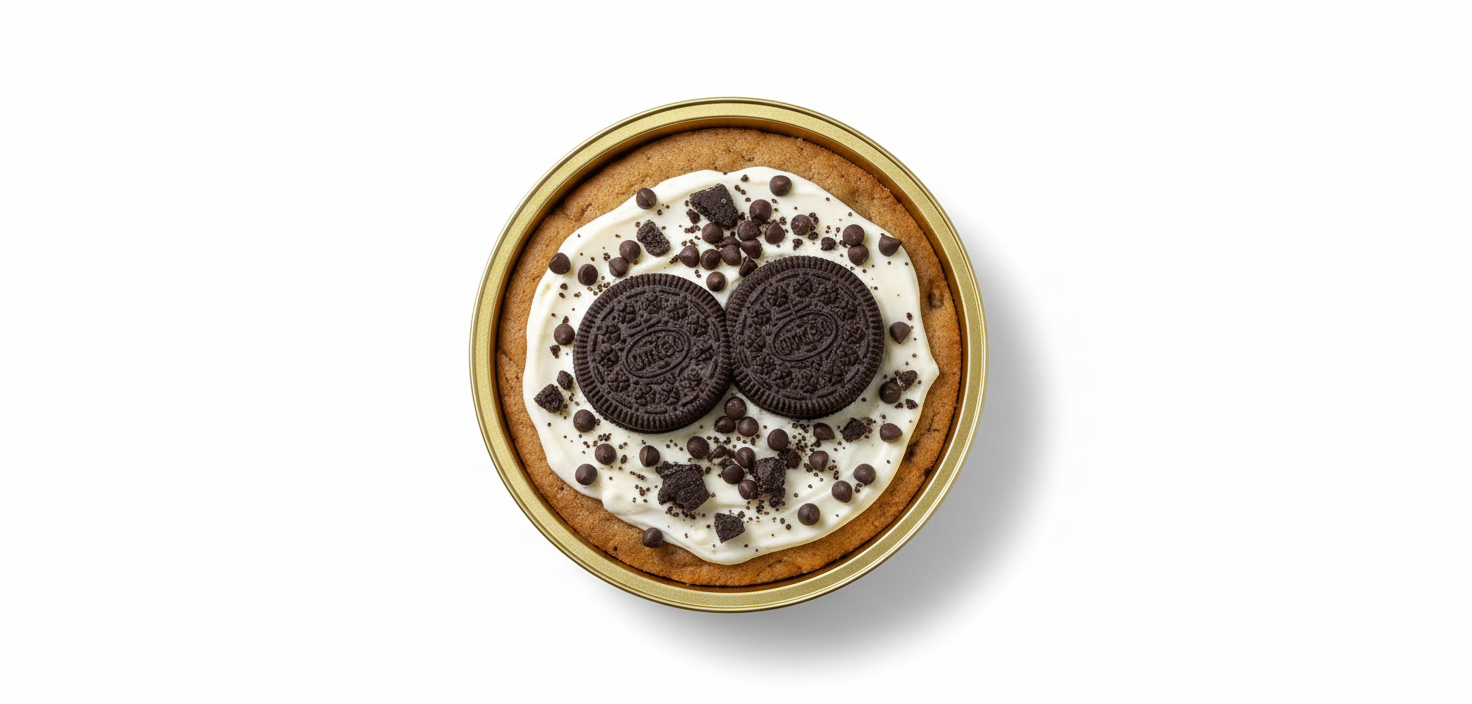
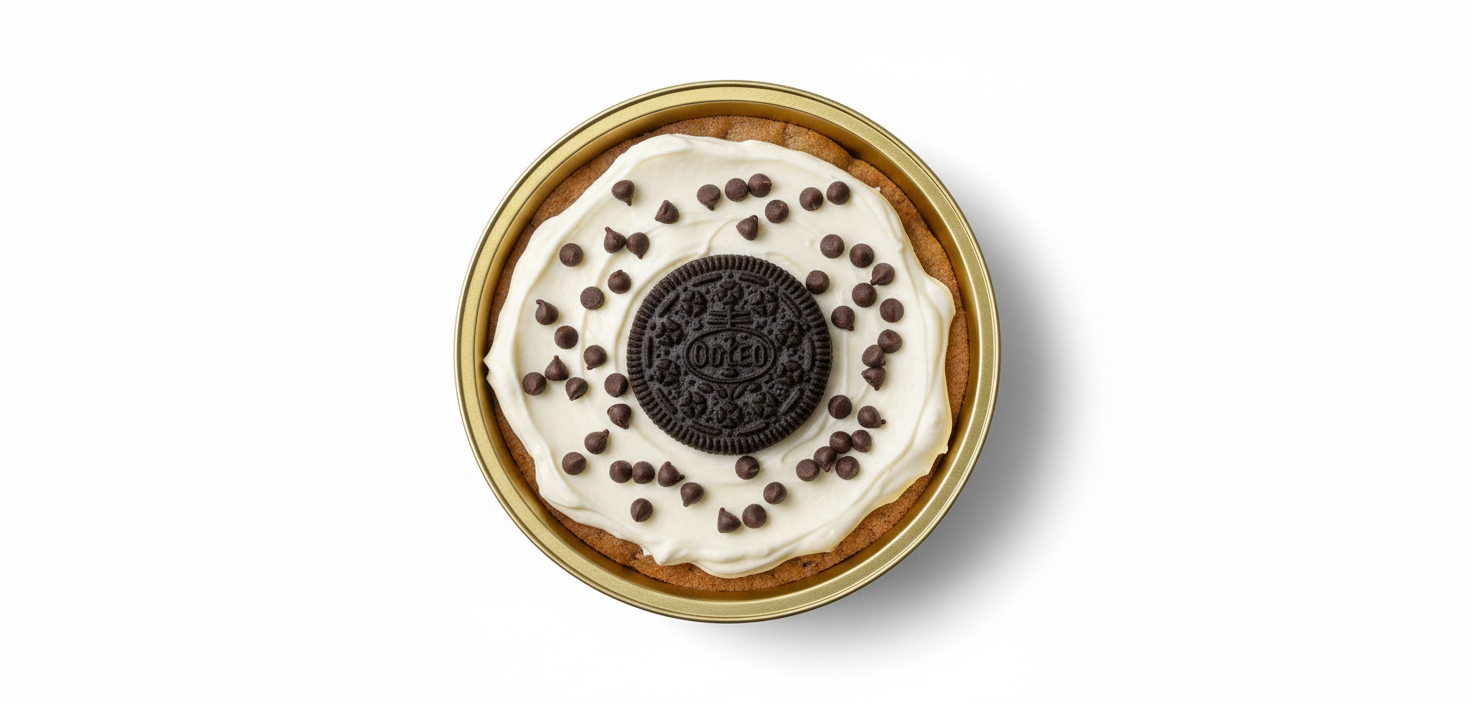
Changes

Changed region(s): [[0.2812, 0.0938, 0.75, 0.9375]]

diff --git a/src/components/CookiesSection.tsx b/src/components/CookiesSection.tsx
@@ -4,13 +4,14 @@ import cookieLotus from "@/assets/cookie-lotus.jpg";
 import cookieToblerone from "@/assets/cookie-toblerone.jpg";
 import cookieRedVelvet from "@/assets/cookie-redvelvet.jpg";
 import cookieKinderBueno from "@/assets/cookie-kinderbueno.jpg";
+import cookieKinderFingers from "@/assets/cookie-kinder-fingers.jpg";
 import cookieConfetti from "@/assets/cookie-confetti.jpg";
 
 const cookies = [
   {
     image: cookieOreo,
     name: "אוראו",
-    description: "עוגייה עם קרם לבן קטיפתי ועוגיית אוראו שלמה למעלה. פריכות ושוקולד בכל ביס.",
+    description: "עוגייה עם קרם לבן קטיפתי ועוגיית אוראו במרכז. פריכות ושוקולד בכל ביס.",
     price: "₪25",
   },
   {
@@ -34,7 +35,13 @@ const cookies = [
   {
     image: cookieKinderBueno,
     name: "קינדר בואנו",
-    description: "עוגייה עם אצבעות קינדר בואנו, שוקולד חלב וצ׳יפס שוקולד לבן.",
+    description: "עוגייה עם חתיכות קינדר בואנו, שוקולד חלב וצ׳יפס שוקולד לבן.",
+    price: "₪25",
+  },
+  {
+    image: cookieKinderFingers,
+    name: "אצבעות קינדר",
+    description: "עוגייה עם אצבעות שוקולד קינדר וציפוי שוקולד חלב מותך. לחובבי הקינדר.",
     price: "₪25",
   },
   {
@@ -62,7 +69,7 @@ const CookiesSection = () => {
           </p>
         </div>
 
-        <div className="grid grid-cols-1 sm:grid-cols-2 lg:grid-cols-3 gap-8">
+        <div className="grid grid-cols-1 sm:grid-cols-2 lg:grid-cols-3 xl:grid-cols-4 gap-8">
           {cookies.map((cookie, index) => (
             <CookieCard
               key={cookie.name}
